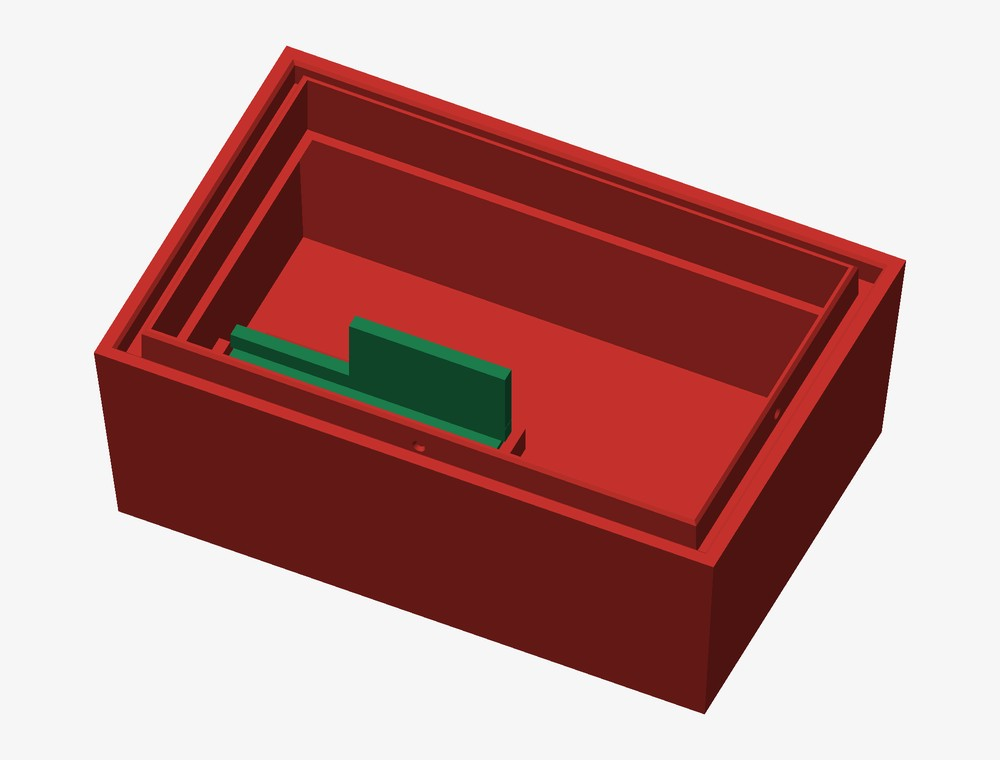
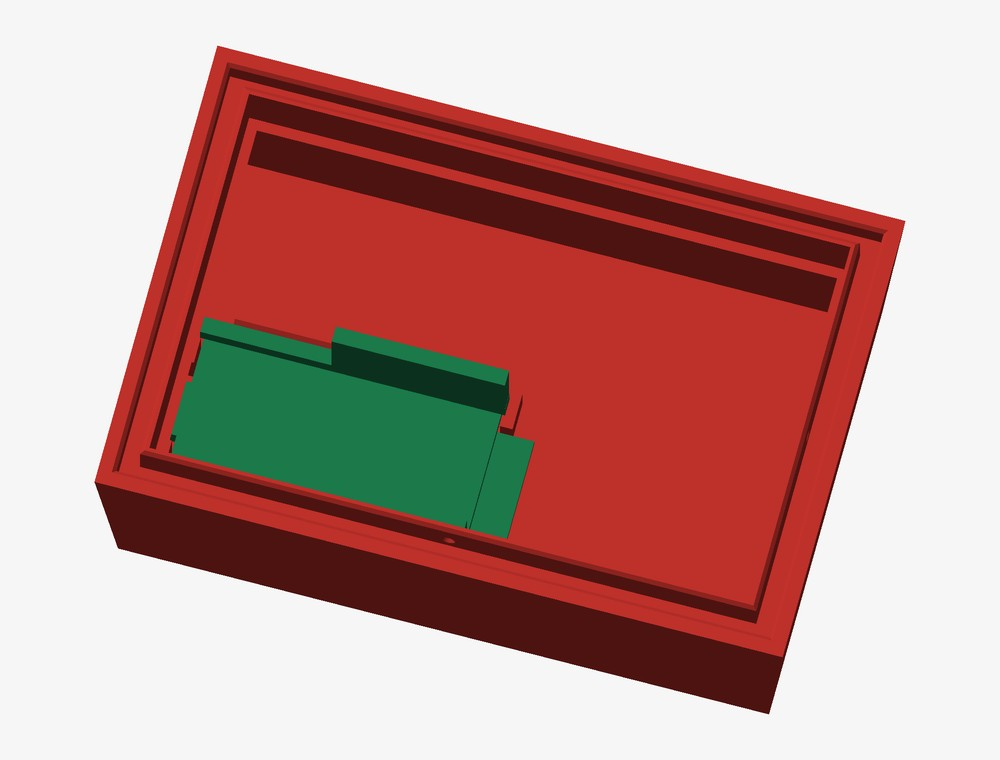
docs: steeper view of the ESP32 in the tray, the deeper walls hid it

diff --git a/cad/render.py b/cad/render.py
@@ -112,7 +112,7 @@ def make_previews(asm, ghosts, print_parts, out_dir):
     render(lay(["tray", "platform", "wheel", "wheel_cap", "cage"],
                {"platform": (0, 0, 35), "wheel": (0, 0, 50), "wheel_cap": (0, 32, 50), "cage": (0, 0, 145)}),
            az=-32, el=22, size=(1000, 1100)).save(out_dir / "exploded.jpg", quality=90)
-    render(lay(["tray"], extra=["esp32"]), az=-25, el=48, size=(1000, 760)).save(
+    render(lay(["tray"], extra=["esp32"]), az=-15, el=72, size=(1000, 760)).save(
         out_dir / "tray_inside.jpg", quality=90)
     render([(to_mesh(print_parts["cage_net"]), COLORS["cage"])], az=0, el=90, size=(1100, 950)).save(
         out_dir / "cage_net.jpg", quality=90)
